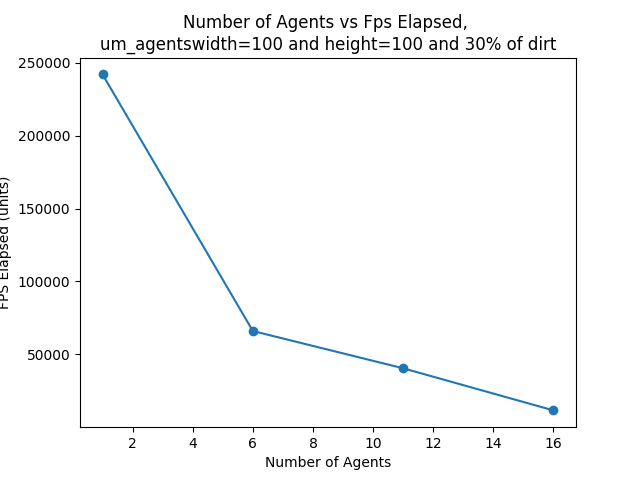
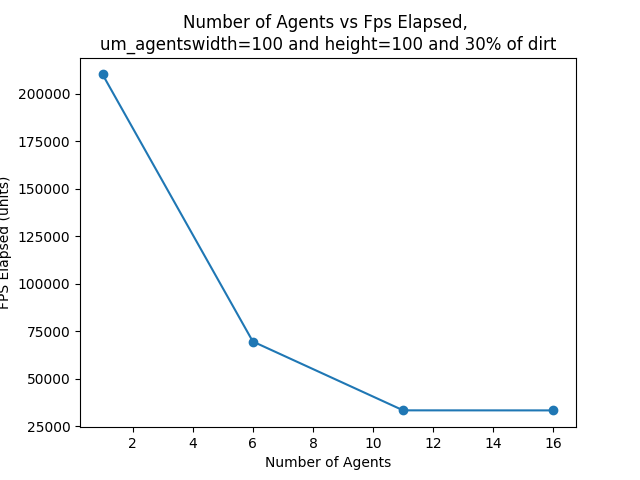
Terminado

diff --git a/Actividad_1/Actividad_1.py b/Actividad_1/Actividad_1.py
@@ -34,12 +34,10 @@ def run_batch(width, height, dirty_percentage, max_agents, step_size):
         print(f"Prueba con {i} agentes: ")
         model = MapaModel(width, height, i, dirty_percentage, 10000000)
         fps = 0
-        while True:
-            try:
-                fps += 1
-                model.step()
-            except Exception as _:
-                break
+        while model.running:
+            fps += 1
+            model.step()
+                
         print("-------------------------")
         num_agents.append(i)
         time_elapsed.append(model.time_elapsed)
@@ -71,12 +69,9 @@ def run_batch_fps(width, height, dirty_percentage, max_agents, step_size):
         print(f"Prueba con {i} agentes: ")
         model = MapaModel(width, height, i, dirty_percentage, 10000000)
         fps = 0
-        while True:
-            try:
-                fps += 1
-                model.step()
-            except Exception as _:
-                break
+        while model.running:     
+            fps += 1
+            model.step()
         print(f"-------------------------")
         num_agents.append(i)
         fps_elapsed.append(fps)
@@ -93,11 +88,9 @@ def run_batch_fps(width, height, dirty_percentage, max_agents, step_size):
 def run_individual(width, height, num_agents, dirty_percentage, max_time):
     # Function to test individual models
     model = MapaModel(width, height, num_agents, dirty_percentage, max_time)
-    while True:
-        try:
+    while model.running:
             model.step()
-        except Exception as _:
-            break
+            
 
 
 class VacuumCleaner(Agent):
@@ -197,7 +190,6 @@ class MapaModel(Model):
                         self.grid.place_agent(dirt, (x, y))
 
     def step(self):
-        self.schedule.step()
         cleaned_percentage = self.cleaned_cells * 100 / self.celdas_sucias
 
         # Update the user on how the progress is going
@@ -215,7 +207,6 @@ class MapaModel(Model):
             print(f"Todas las celdas se han limpiado {self.cleaned_cells}")
             print(f"El total de pasos tomados fue: {total_steps}")
             self.running = False
-            raise Exception
 
         #If we exceed the time limit we stop the program
         elif self.max_time < time() - self.start_time:
@@ -226,10 +217,12 @@ class MapaModel(Model):
             print(f"Se limpio el {cleaned_percentage:.2f}% de celdas sucias")
             print(f"El total de pasos tomados fue: {total_steps}")
             self.running = False
-            raise Exception
+            #raise Exception
+        self.schedule.step()
+
 
 
 if __name__ == "__main__":
     run_individual(100,100,20,30,10000)
-    #run_batch(100, 100, 30, 20, 5)
-    #run_batch_fps(100, 100, 30, 20, 5)
+    run_batch(100, 100, 30, 20, 5)
+    run_batch_fps(100, 100, 30, 20, 5)

diff --git a/README.md b/README.md
@@ -1,1 +1,3 @@
 # Actividades-SMA
+
+Actividad_1.py corre el programa, para correr el programa con un test manualmente tienes que usar la funcion run_individual y mandar los parametros que este indica
